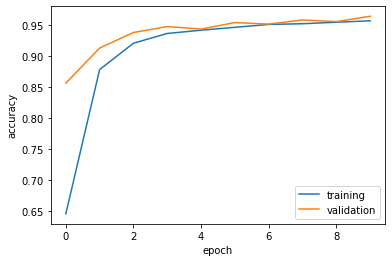
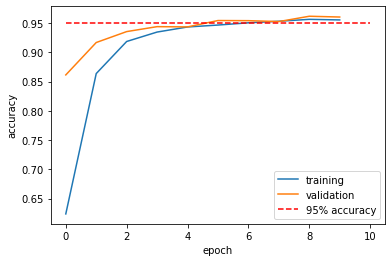
reversion

diff --git a/_posts/2021-05-15-HW_3.md b/_posts/2021-05-15-HW_3.md
@@ -159,7 +159,15 @@ def make_dataset(df):
     
     return dataset
 ```
-Let's  split of 20% of dataset to use for validation and 10% for test dataset.
+{::options parse_block_html="true" /}
+<div class="gave-help">
+I give this part of the code in function make dataset to my peers as a suggestion "df[i] = df[i].apply(lambda x: " ".join([i for i in re.split(r'\W+', x.lower()) if i not in stop]))". 
+This code did the standardize part jobs,make each words lower case and remove punctuations,it's efficient to prepare our dataset.
+</div>
+{::options parse_block_html="false" /}
+
+
+Let's  split of 20% of dataset to use for validation
 
 
 ```python
@@ -234,7 +242,11 @@ We want text_model and title_model share embedding
 ```python
 shared_embedding = layers.Embedding(max_tokens, 30, name = 'embedding')
 ```
-
+{::options parse_block_html="true" /}
+<div class="gave-help">
+Since the title and text are related, we could share the embedding for both the article "title" and "text" inputs.I saw some peer use two different embedding so I suggest them to share the embedding.
+</div>
+{::options parse_block_html="false" /}
 Since we want to creat two similar models. Let's  write a function to set the features
 ```python
 def set_features(col_input,col_name, vec_layer):
@@ -342,6 +354,7 @@ Let's visualize the change of accuracy during each Epoch.
 from matplotlib import pyplot as plt
 plt.plot(title_history.history["accuracy"], label = "training")
 plt.plot(title_history.history["val_accuracy"], label = "validation")
+plt.plot([0,30], [0.95,0.95], "r--", label = "95% accuracy")
 plt.gca().set(xlabel = "epoch", ylabel = "accuracy")
 plt.legend()
 ```
@@ -422,6 +435,8 @@ Epoch 10/10
 ```python
 plt.plot(text_history.history["accuracy"], label = "training")
 plt.plot(text_history.history["val_accuracy"], label = "validation")
+plt.plot([0,30], [0.95,0.95], "r--", label = "95% accuracy")
+plt.plot([0,30], [0.99,0.99], "g--", label = "99% accuracy")
 plt.gca().set(xlabel = "epoch", ylabel = "accuracy")
 plt.legend()
 ```
@@ -528,9 +543,17 @@ Epoch 10/10
 ```python
 plt.plot(main_history.history["accuracy"], label = "training")
 plt.plot(main_history.history["val_accuracy"], label = "validation")
+plt.plot([0,30], [0.99,0.99], "g--", label = "99% accuracy")
 plt.gca().set(xlabel = "epoch", ylabel = "accuracy")
 plt.legend()
 ```
+
+{::options parse_block_html="true" /}
+<div class="got-help">
+My peer suggest me to add horizontal lines at 0.95 to visualize how fast they reach the accuracy! I took this suggestion and add the line to all my plots. It did help reader visualize at which epoch the accurarcy reach the percentage that we aim for.
+</div>
+{::options parse_block_html="false" /}
+
 ![hist_plot3.png](/images/Blog3/hist_plot3.png)
 
 # Model Evaluation
@@ -557,7 +580,7 @@ import plotly.express as px
 
 weights = main_model.get_layer('embedding').get_weights()[0] # get the weights from the embedding layer
 vocab = title_vec_layer.get_vocabulary() 
-
+# PVA() could reduce the dimensions of embedding. We origin dimensions are 30 we change it to 2 dimension 
 pca = PCA(n_components=2)
 weights = pca.fit_transform(weights)
 
@@ -737,7 +760,7 @@ embedding_df2
   </tbody>
 </table>
 
-We observed embedding_df2 and embedding_df is same because they shared embedding
+We observed embedding_df2 and embedding_df is same because they shared embedding.So we can choose any of it to graph.
 
 ```python
 fig = px.scatter(embedding_df, 
@@ -749,9 +772,11 @@ fig = px.scatter(embedding_df,
 
 fig.show()
 ```
-
+Actually I can't tell which direction is associate to real news or fake news from the graph. But we can see that the news contain words on right bottom or top l "forces", "public","help" has stronger relatedness of a fake new or a real new. 
 {% include emb_scatter.html %}
-
-
-
+{::options parse_block_html="true" /}
+<div class="got-help">
+My peer suggest me to add more explaination for embedding visualization.
+</div>
+{::options parse_block_html="false" /}
 
